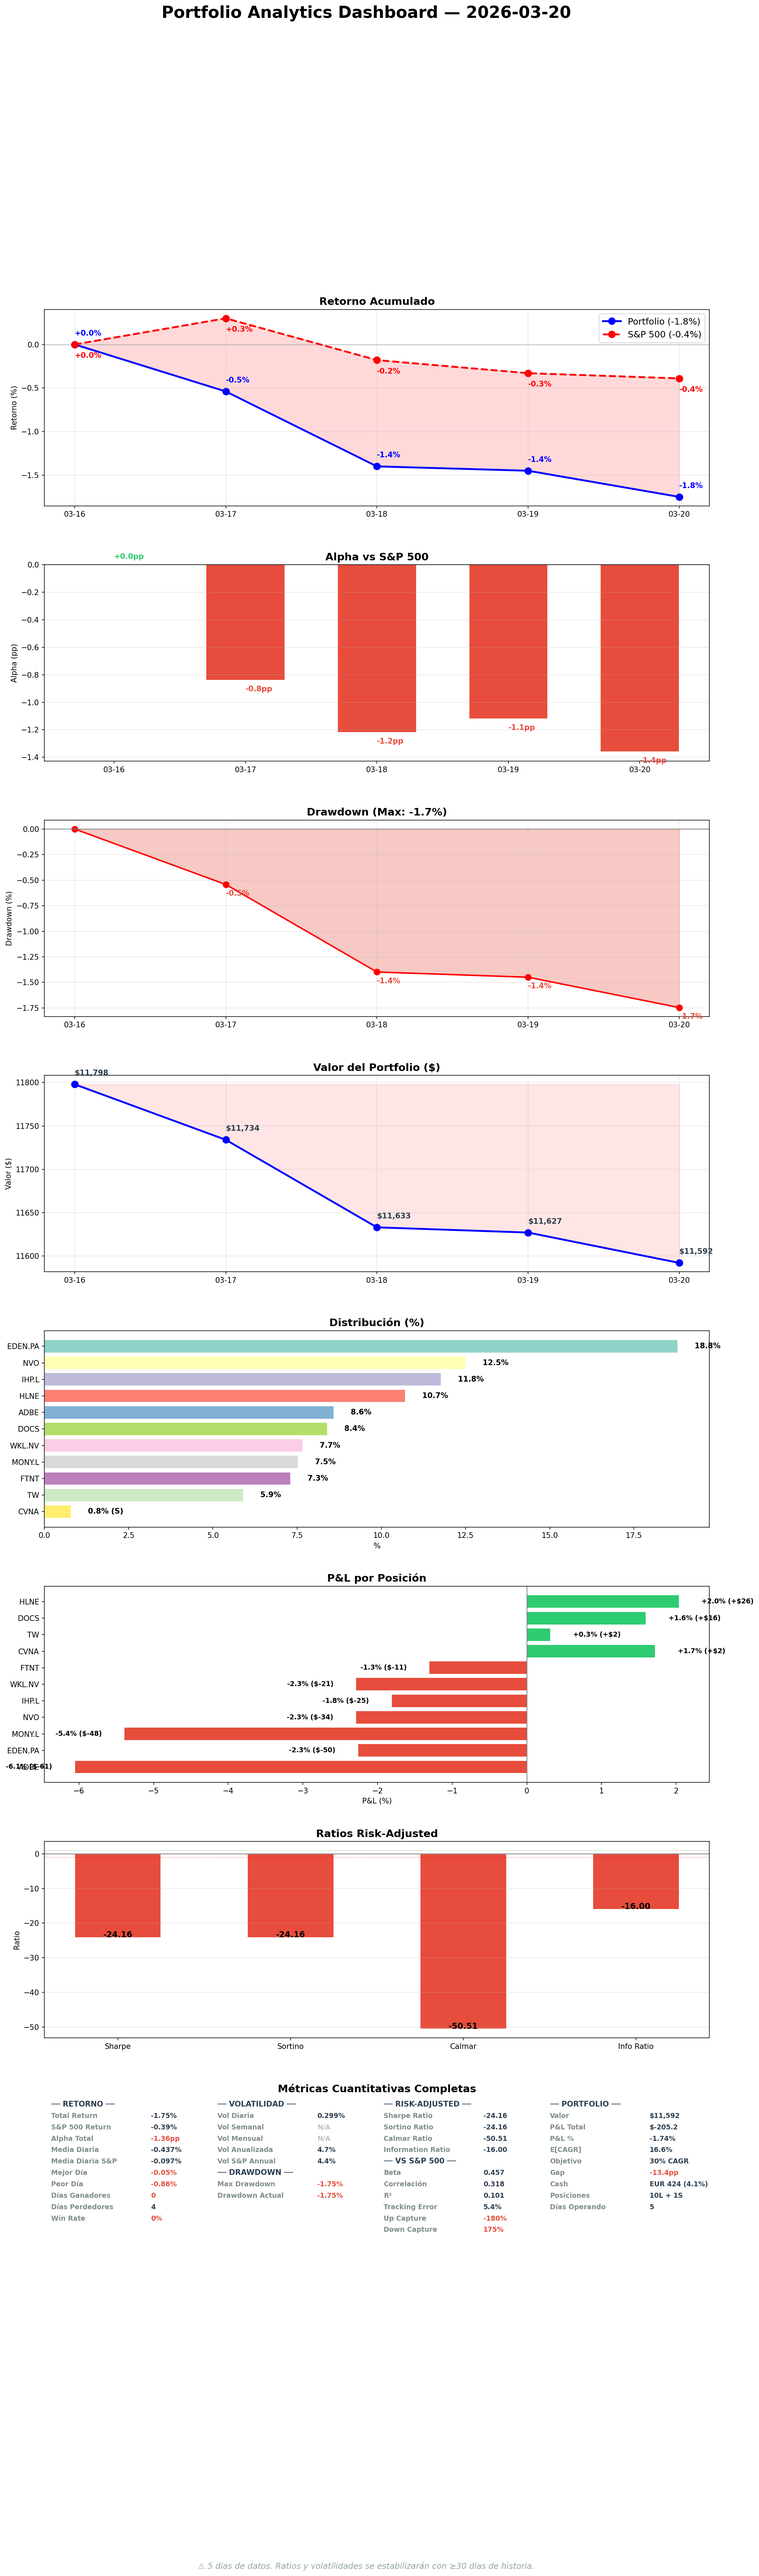
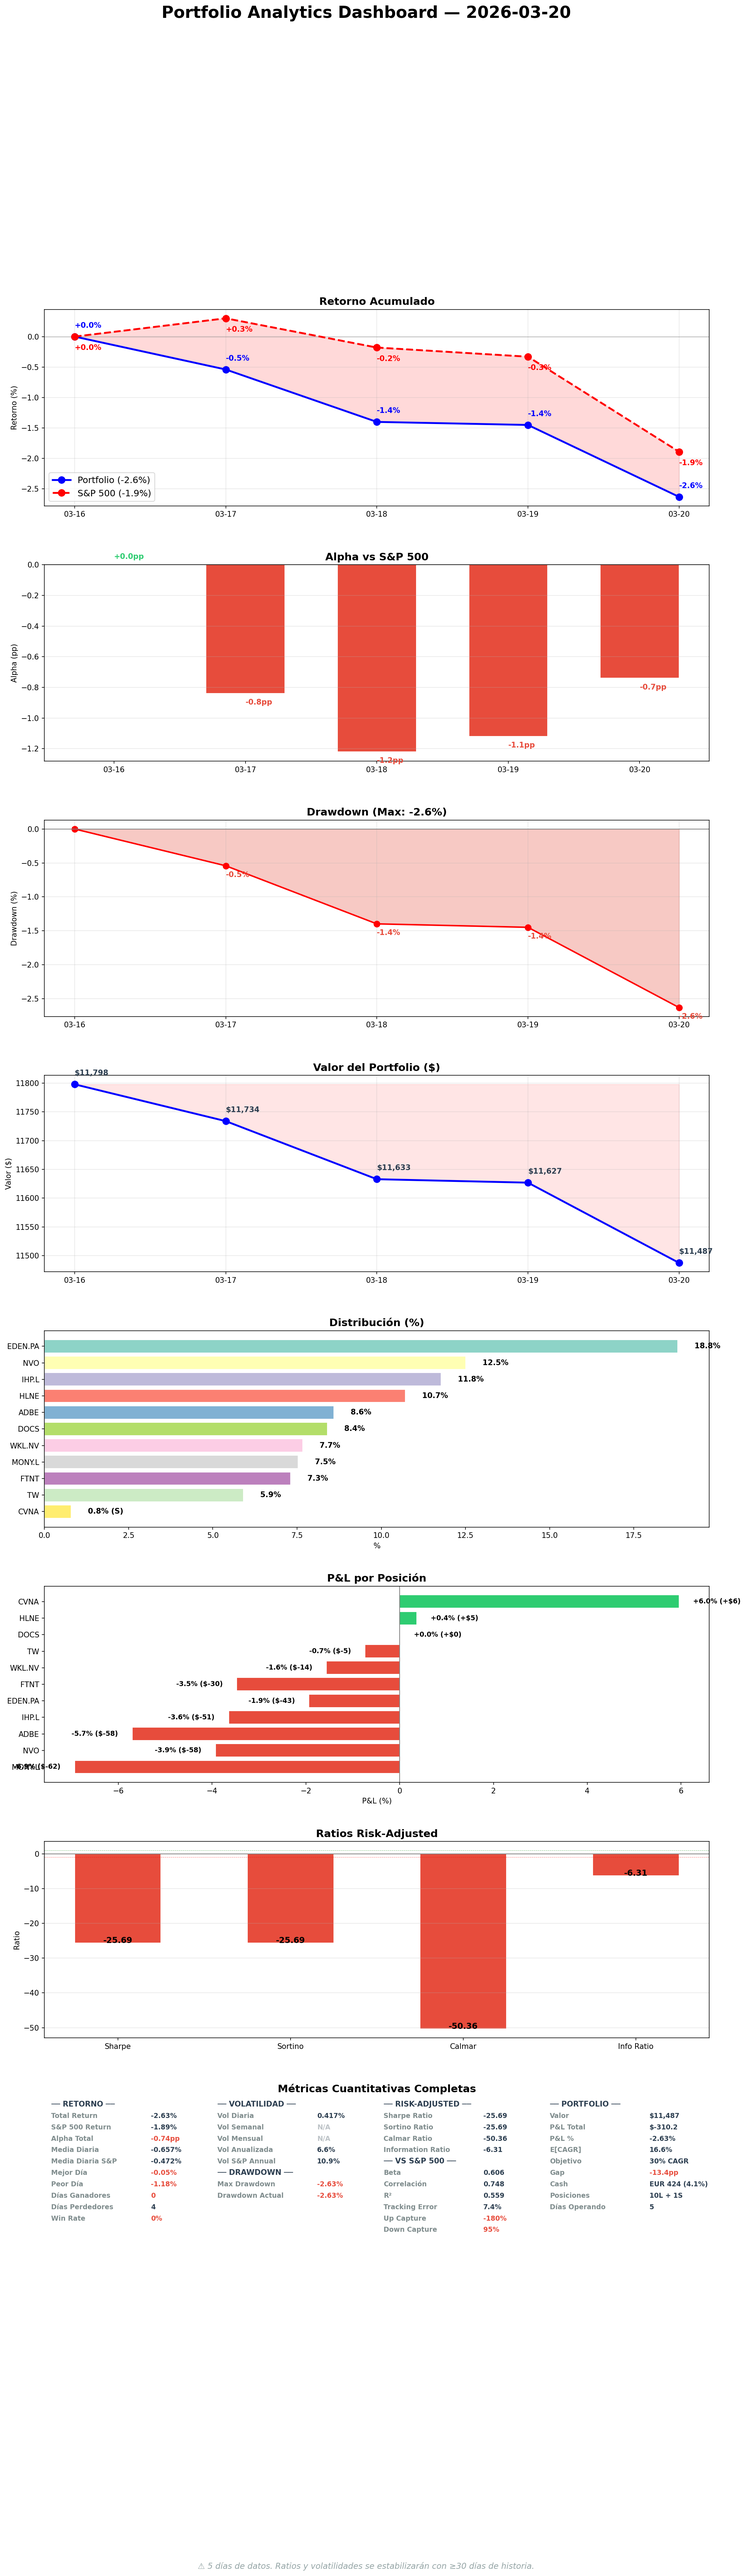
report: daily 2026-03-20 (Friday)
58 R1 + 58 DA in 6 days. SPGI 1% from trigger.
Strategy chat: cash, baskets, megatrends pactados.
Portfolio -2.6% vs S&P -1.9% = alpha -0.7pp.

diff --git a/reports/daily/2026-03-20.md b/reports/daily/2026-03-20.md
@@ -1,0 +1,113 @@
+# Daily Report — Viernes 20 Marzo 2026
+
+## 1. Portfolio Analytics
+
+![Portfolio Analytics](images/analytics_2026-03-20.png)
+
+| Fecha | Portfolio | S&P 500 | Alpha |
+|-------|----------|---------|-------|
+| 16 Mar (inicio) | 0.0% | 0.0% | — |
+| 17 Mar | -0.5% | +0.3% | -0.8pp |
+| 18 Mar | -1.4% | -0.2% | -1.2pp |
+| 19 Mar | -1.4% | -0.3% | -1.1pp |
+| 20 Mar | -2.6% | -1.9% | -0.7pp |
+
+## 2. Resumen del día
+Viernes Cleanup + Evolution. Charla estratégica completada (cash, baskets, megatrends, timing pactados). SPGI a $424 — 1% del trigger, no triggereo hoy. Pipeline: 58 R1 + 58 DA en 6 días. Precios specialist vs demo verificados y corregidos.
+
+## 3. Portfolio Demo
+| Ticker | P&L | P&L% |
+|--------|-----|------|
+| HLNE | +$26 | +2.0% |
+| DOCS | +$16 | +1.6% |
+| CVNA (S) | +$2 | +1.7% |
+| TW | +$2 | +0.3% |
+| FTNT | -$11 | -1.3% |
+| WKL | -$22 | -2.4% |
+| IHP.L | -$27 | -1.9% |
+| NVO | -$34 | -2.3% |
+| MONY.L | -$49 | -5.5% |
+| EDEN.PA | -$53 | -2.4% |
+| ADBE | -$61 | -6.1% |
+| **TOTAL** | **-$211** | **-1.8%** |
+
+Cash: EUR 424 (4.1%)
+
+## 4. Operaciones ejecutadas
+Ninguna. SPGI monitorizado pero no triggereo ($424 vs $420 trigger).
+
+## 5. Decisiones tomadas
+- Charla estratégica: cash 4.1% OK, SPGI buy if $420, baskets rename, 4 megatrends pactados
+- Precios IHP.L/MONY.L/CVNA corregidos en specialist yaml
+- Decisiones consensuadas con datos (nueva hard rule)
+
+## 6. Trabajo del especialista
+| Tipo | Cantidad |
+|------|----------|
+| R1 thesis.md | 5 (ADP, BN, UBER, CP, LYV) |
+| R2 DA | 7 (ADP, BN, KKR, URI, IDXX, CTAS, NDAQ, MSCI) |
+| SO audit | Clean — 0 stale |
+| Pipeline cleanup | 6 renames + 10 orphan archives |
+| SPGI monitoring | 5 checks (not triggered) |
+
+## 7. Pipeline status
+| Tipo | Total (6 días) |
+|------|----------------|
+| R1 thesis.md | 58 |
+| R2 DA | 58 |
+| R3 | 4 |
+| R4 | 2 |
+| Sector views | 32/33 fresh |
+| D&A basket | 8/8 R1+R2 complete |
+
+## 8. Baskets
+| Basket | Pos | %Port | Health |
+|--------|-----|-------|--------|
+| Digital Compounders (renamed) | 3 | 26.5% | HEALTHY — GDDY Mar 26 |
+| UK Quality | 2 | 18.9% | OK — rotation Mar 26 |
+| D&A Monopolies | 2 | 13.3% | OK — SPGI 1% from trigger |
+| EU Pricing Power | 1 | 18.1% | DEATH_WATCH |
+| Cybersecurity | 1 | 7.4% | CRITICAL |
+| NVO (orphan) | 1 | 11.7% | Trimming Mar 26 |
+
+## 9. Objectives
+| Objetivo | Meta | Resultado | |
+|----------|------|-----------|---|
+| Screening (R1) | ≥5/día | 5 | ✅ |
+| DA (R2) | ≥5/día | 7 | ✅ |
+| Smart money | ≥1/día | 1 | ✅ |
+| Sector views | 0 stale | 5 stale | ❌ |
+| KC review | diaria | ✅ | ✅ |
+| Tweets | 5/día | 5 X + 5 eToro | ✅ |
+
+## 10. Eventos
+- Sell-off continúa post-FOMC hawkish. S&P -1.9% esta semana.
+- ADBE nuevo 52-week low. SPGI 1% del trigger.
+- Fear & Greed Index: 17 (extreme fear)
+- Iran/Hormuz: día 24 cerrado. Oil ~$95.
+
+## 11. Twitter @nopaixx
+- 5 tweets X + 5 eToro posts
+- 3 replies (fffinstill, buy-the-dip, QCompounding)
+- 5+ nuevos followers
+- Verificados dando likes (Leila, Cash Flow Yield)
+
+## 12. Errores
+| Quién | Error | Corrección |
+|-------|-------|-----------|
+| Gobernator | Acepté charla estratégica sin cuestionar suficiente (cash, megatrends) | Hard rule: decisiones consensuadas con datos |
+
+## 13. Plan próxima semana
+### Urgente
+- Mar 26: 4 trades (GDDY, DNLM.L, NVO trim, MONY.L sell)
+- SPGI: 1% del trigger — puede triggerearse lunes
+
+### Lunes (stress test + week prep)
+- Stress test semanal
+- DNLM.L verification pre-Mar 26
+- Pipeline: R3 advancement (MELI, PAYC)
+
+### Semana
+- Mar 26 execution day
+- FTNT exit prep (late April)
+- Weekly audit domingo
